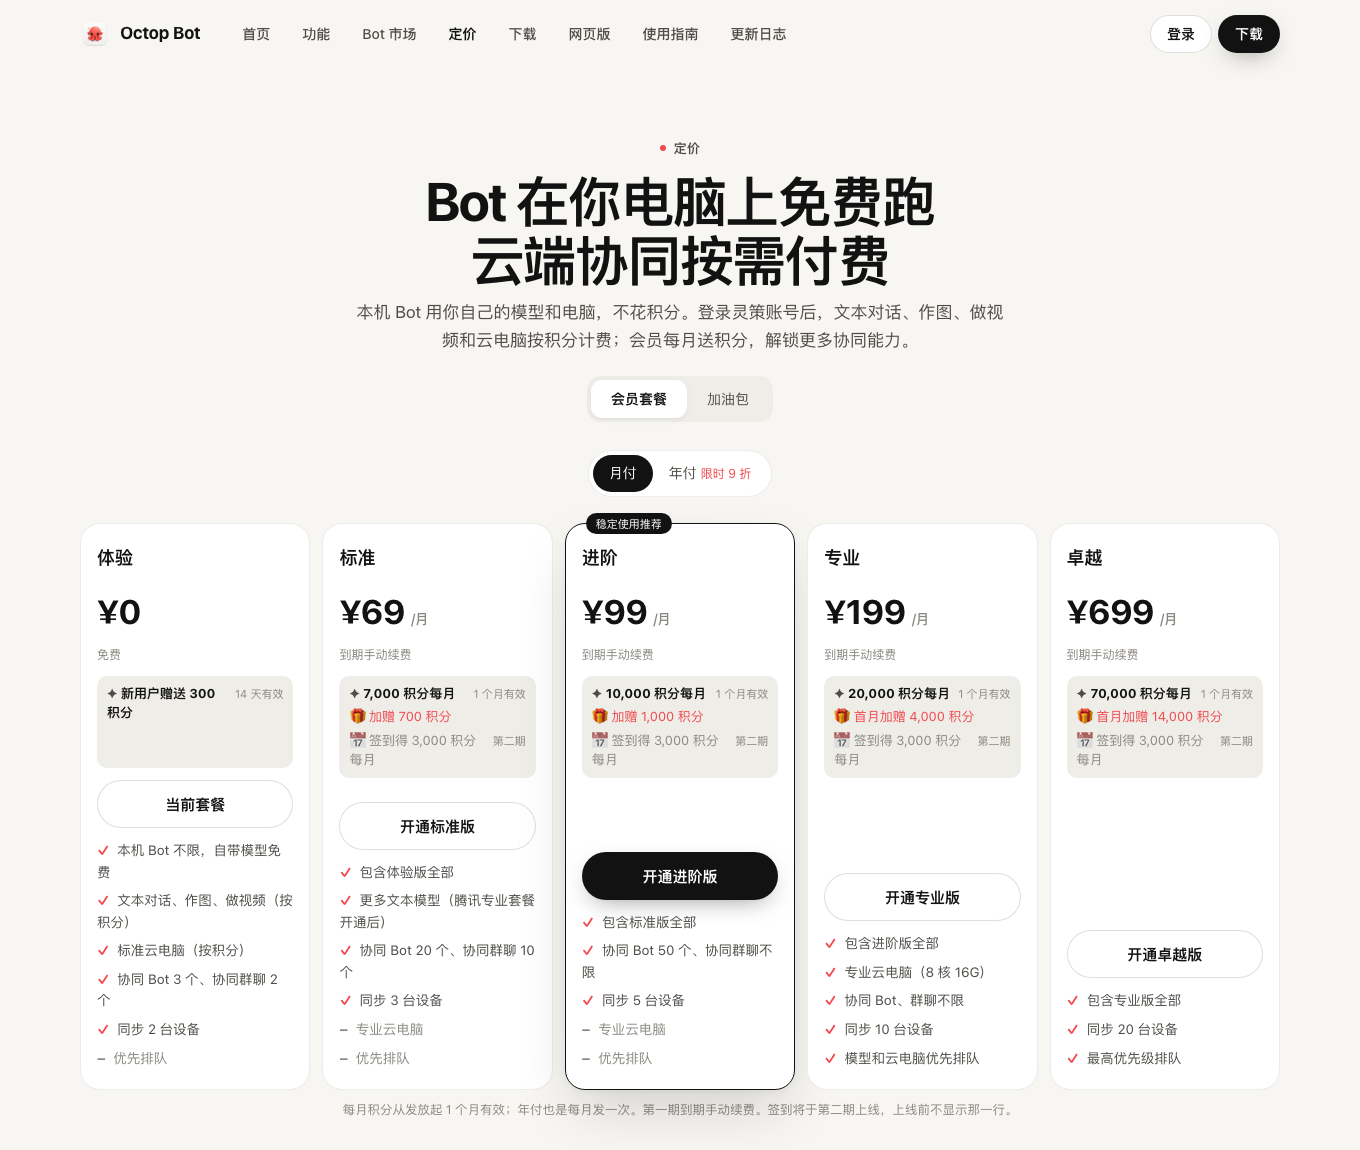
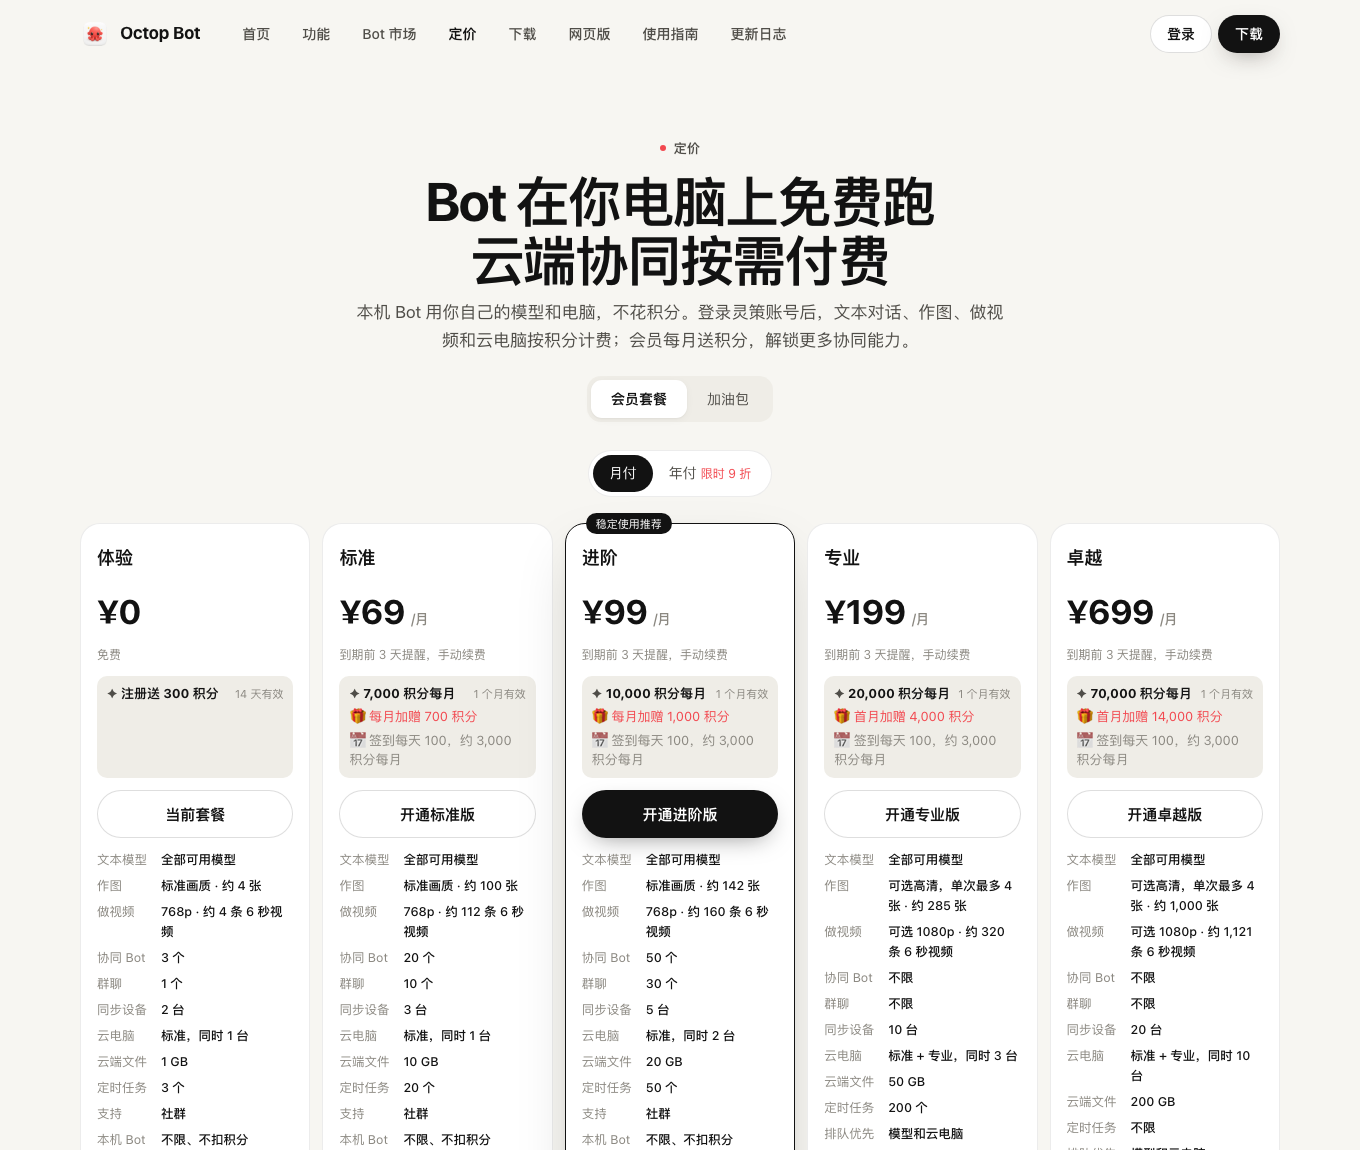
docs(bot): price images and videos from Lynxce's default models
Pricing cards now count what a month of credits buys with Lynxce's
current defaults: image2.6 at 70 credits an image (standard and HD cost
the same) and MiniMax H3 at 10.4 credits a second for 768p video, so the
standard tier reads about 100 images or 112 six-second videos. Pro and
max offer 1080p video instead of 2K, the highest MiniMax H3 renders.

The design doc records the full price tiers, the public pricing catalog
the website reads, and fills in the remaining 定稿 benefits. Plan buttons
line up across cards.

diff --git a/docs/assets/octop-bot-saas-billing/prototype.html b/docs/assets/octop-bot-saas-billing/prototype.html
@@ -142,7 +142,8 @@
   .small { font-size: 12.5px; }
   .plan { padding: 20px 16px; }
   .plan .renew { font-size: 12px; color: var(--ink-3); margin-top: -6px; }
-  .plan .credits { min-height: 92px; }
+  .plan .credits { min-height: 102px; }
+  .plan .btn { margin-top: 0; }
   .plan .credits .row { display: flex; justify-content: space-between; gap: 6px; align-items: baseline; }
   .plan .credits .row + .row { margin-top: 4px; }
   .plan .credits .gift { color: var(--accent); }
@@ -416,9 +417,9 @@
 const PAGES = [["pricing","定价·月付"],["pricing-year","定价·年付"],["packs","定价·积分包"],["changelog","更新日志"],["changelog-en","Changelog (EN)"],["login","登录"],["checkout","结账"],["result","支付结果"],["account","个人中心·概览"],["usage","用量明细"],["orders","订单与发票"],["plan","套餐管理"],["security","账号与安全"],["devices","登录设备"],["bots","我的 Bot 与下载"],["app-desktop","客户端·余额与不足"],["app-limits","客户端·云电脑与上限"],["app-mobile","客户端·手机线框"]];
 const ACCOUNT = ["account","usage","orders","plan","security","devices","bots"];
 let cycle = "m";
-// Read live from Lynxce on the real page: default image / video model and their unit prices.
-const IMG_STD_PRICE = __IMG_STD__, IMG_HD_PRICE = __IMG_HD__, VID_768_PRICE = __VID_768__, VID_2K_PRICE = __VID_2K__;
-const MEDIA = { image: { model: "gpt2.6", std: IMG_STD_PRICE, hd: IMG_HD_PRICE }, video: { model: "MiniMax H3", p768: VID_768_PRICE, k2: VID_2K_PRICE } };
+// The real page reads these from Lynxce (GET /api/models/pricing-catalog: the first image and
+// video model are the defaults). Values below are Lynxce's prices on 2026-11-25.
+const MEDIA = { image: { model: "image2.6", std: 70, hd: 70 }, video: { model: "MiniMax H3", p768: 10.4, p1080: 19.76 } };
 const imgN = credits => Math.floor(credits / MEDIA.image.std).toLocaleString("en-US");
 const vidN = credits => Math.floor(credits / (MEDIA.video.p768 * 6)).toLocaleString("en-US");
 const PLANS = [
@@ -429,9 +430,9 @@ const PLANS = [
   { id:"plus", name:"进阶", m:99, y:1069, monthly:10000, credits:[["10,000 积分每月","1 个月有效"]], gift:"每月加赠 1,000 积分", hot:"稳定使用推荐",
     items:[["文本模型","全部可用模型"],["作图",(c)=>`标准画质 · 约 ${imgN(c)} 张`],["做视频",(c)=>`768p · 约 ${vidN(c)} 条 6 秒视频`],["协同 Bot","50 个"],["群聊","30 个"],["同步设备","5 台"],["云电脑","标准，同时 2 台"],["云端文件","20 GB"],["定时任务","50 个"],["支持","社群"]], btn:"开通进阶版" },
   { id:"pro", name:"专业", m:199, y:2149, monthly:20000, credits:[["20,000 积分每月","1 个月有效"]], gift:"首月加赠 4,000 积分",
-    items:[["文本模型","全部可用模型"],["作图",(c)=>`可选高清，单次最多 4 张 · 约 ${imgN(c)} 张`],["做视频",(c)=>`可选 2K · 约 ${vidN(c)} 条 6 秒视频`],["协同 Bot","不限"],["群聊","不限"],["同步设备","10 台"],["云电脑","标准 + 专业，同时 3 台"],["云端文件","50 GB"],["定时任务","200 个"],["排队优先","模型和云电脑"],["支持","工单优先"]], btn:"开通专业版" },
+    items:[["文本模型","全部可用模型"],["作图",(c)=>`可选高清，单次最多 4 张 · 约 ${imgN(c)} 张`],["做视频",(c)=>`可选 1080p · 约 ${vidN(c)} 条 6 秒视频`],["协同 Bot","不限"],["群聊","不限"],["同步设备","10 台"],["云电脑","标准 + 专业，同时 3 台"],["云端文件","50 GB"],["定时任务","200 个"],["排队优先","模型和云电脑"],["支持","工单优先"]], btn:"开通专业版" },
   { id:"max", name:"卓越", m:699, y:7549, monthly:70000, credits:[["70,000 积分每月","1 个月有效"]], gift:"首月加赠 14,000 积分",
-    items:[["文本模型","全部可用模型"],["作图",(c)=>`可选高清，单次最多 4 张 · 约 ${imgN(c)} 张`],["做视频",(c)=>`可选 2K · 约 ${vidN(c)} 条 6 秒视频`],["协同 Bot","不限"],["群聊","不限"],["同步设备","20 台"],["云电脑","标准 + 专业，同时 10 台"],["云端文件","200 GB"],["定时任务","不限"],["排队优先","模型和云电脑"],["支持","专属顾问"]], btn:"开通卓越版" },
+    items:[["文本模型","全部可用模型"],["作图",(c)=>`可选高清，单次最多 4 张 · 约 ${imgN(c)} 张`],["做视频",(c)=>`可选 1080p · 约 ${vidN(c)} 条 6 秒视频`],["协同 Bot","不限"],["群聊","不限"],["同步设备","20 台"],["云电脑","标准 + 专业，同时 10 台"],["云端文件","200 GB"],["定时任务","不限"],["排队优先","模型和云电脑"],["支持","专属顾问"]], btn:"开通卓越版" },
 ];
 const PACKS = [[20, "2,000"], [50, "5,000"], [100, "10,000"], [200, "20,000"], [500, "50,000"]];
 const money = v => "¥" + (Number.isInteger(v) ? v.toLocaleString("en-US") : v.toLocaleString("en-US", { minimumFractionDigits: 1, maximumFractionDigits: 2 }));
@@ -669,7 +670,7 @@ if (new URLSearchParams(location.search).has("clean")) document.body.classList.a
 document.getElementById("imgModel").textContent = MEDIA.image.model;
 document.getElementById("vidModel").textContent = MEDIA.video.model;
 document.getElementById("rateImg").textContent = `${MEDIA.image.model}：标准 ${MEDIA.image.std} 积分/张，高清 ${MEDIA.image.hd} 积分/张`;
-document.getElementById("rateVid").textContent = `${MEDIA.video.model}：768p ${MEDIA.video.p768} 积分/秒，2K ${MEDIA.video.k2} 积分/秒`;
+document.getElementById("rateVid").textContent = `${MEDIA.video.model}：768p ${MEDIA.video.p768} 积分/秒，1080p ${MEDIA.video.p1080} 积分/秒`;
 renderPlans();
 window.onhashchange = render;
 render();
